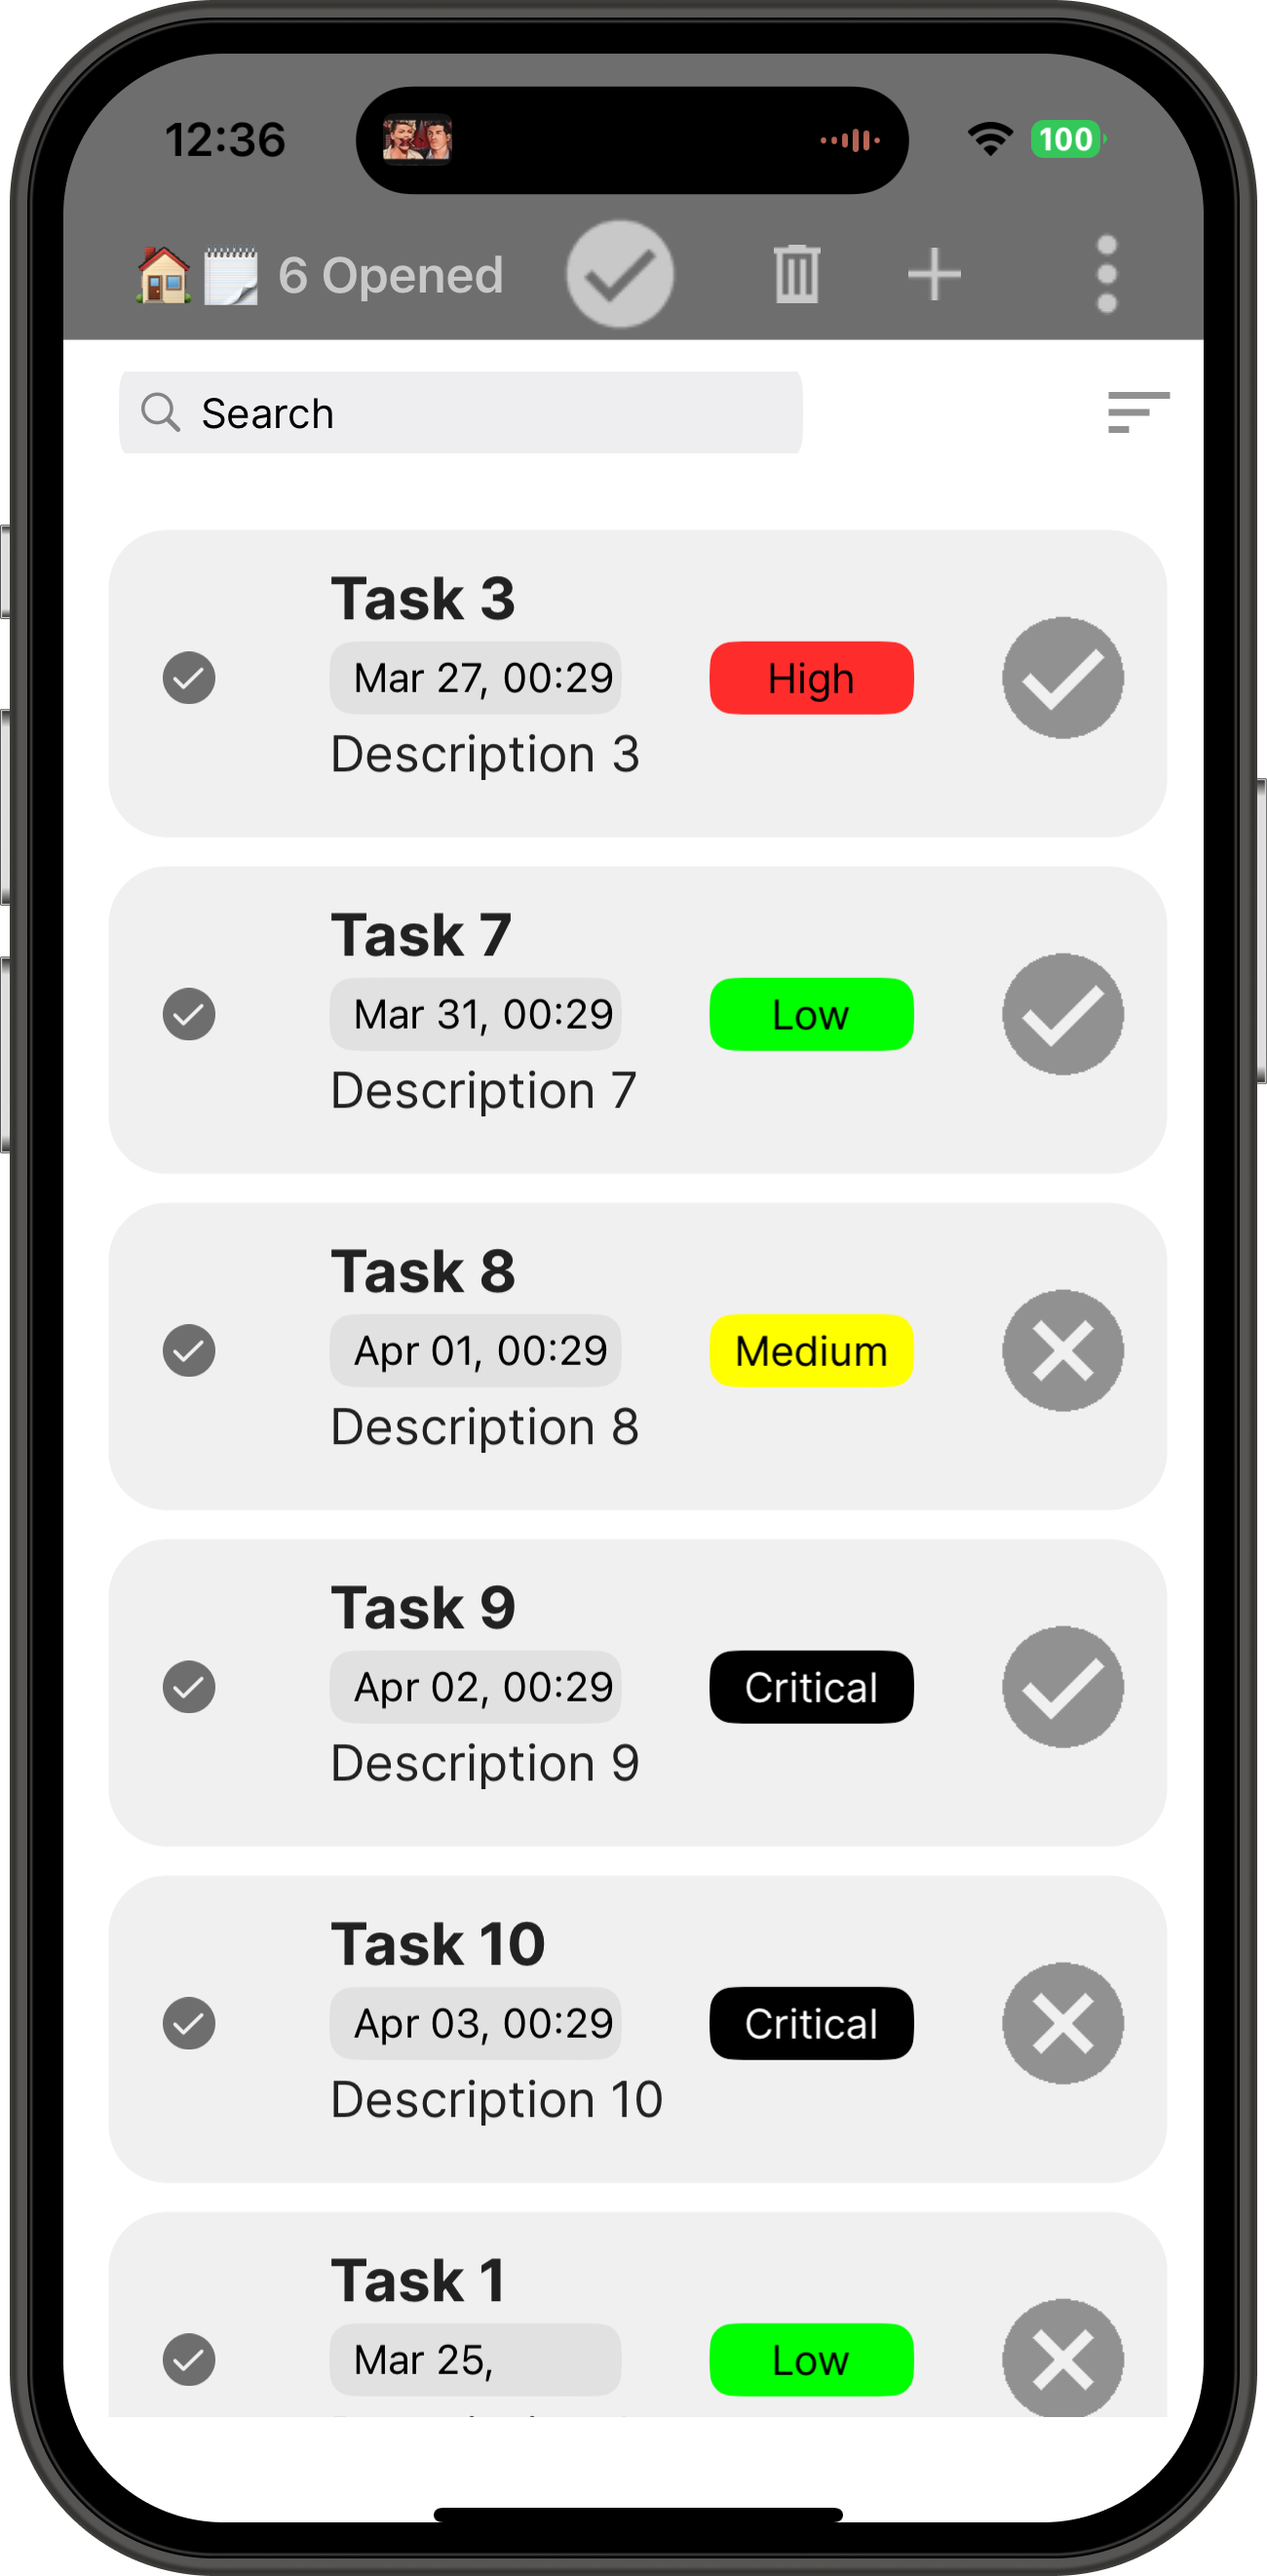
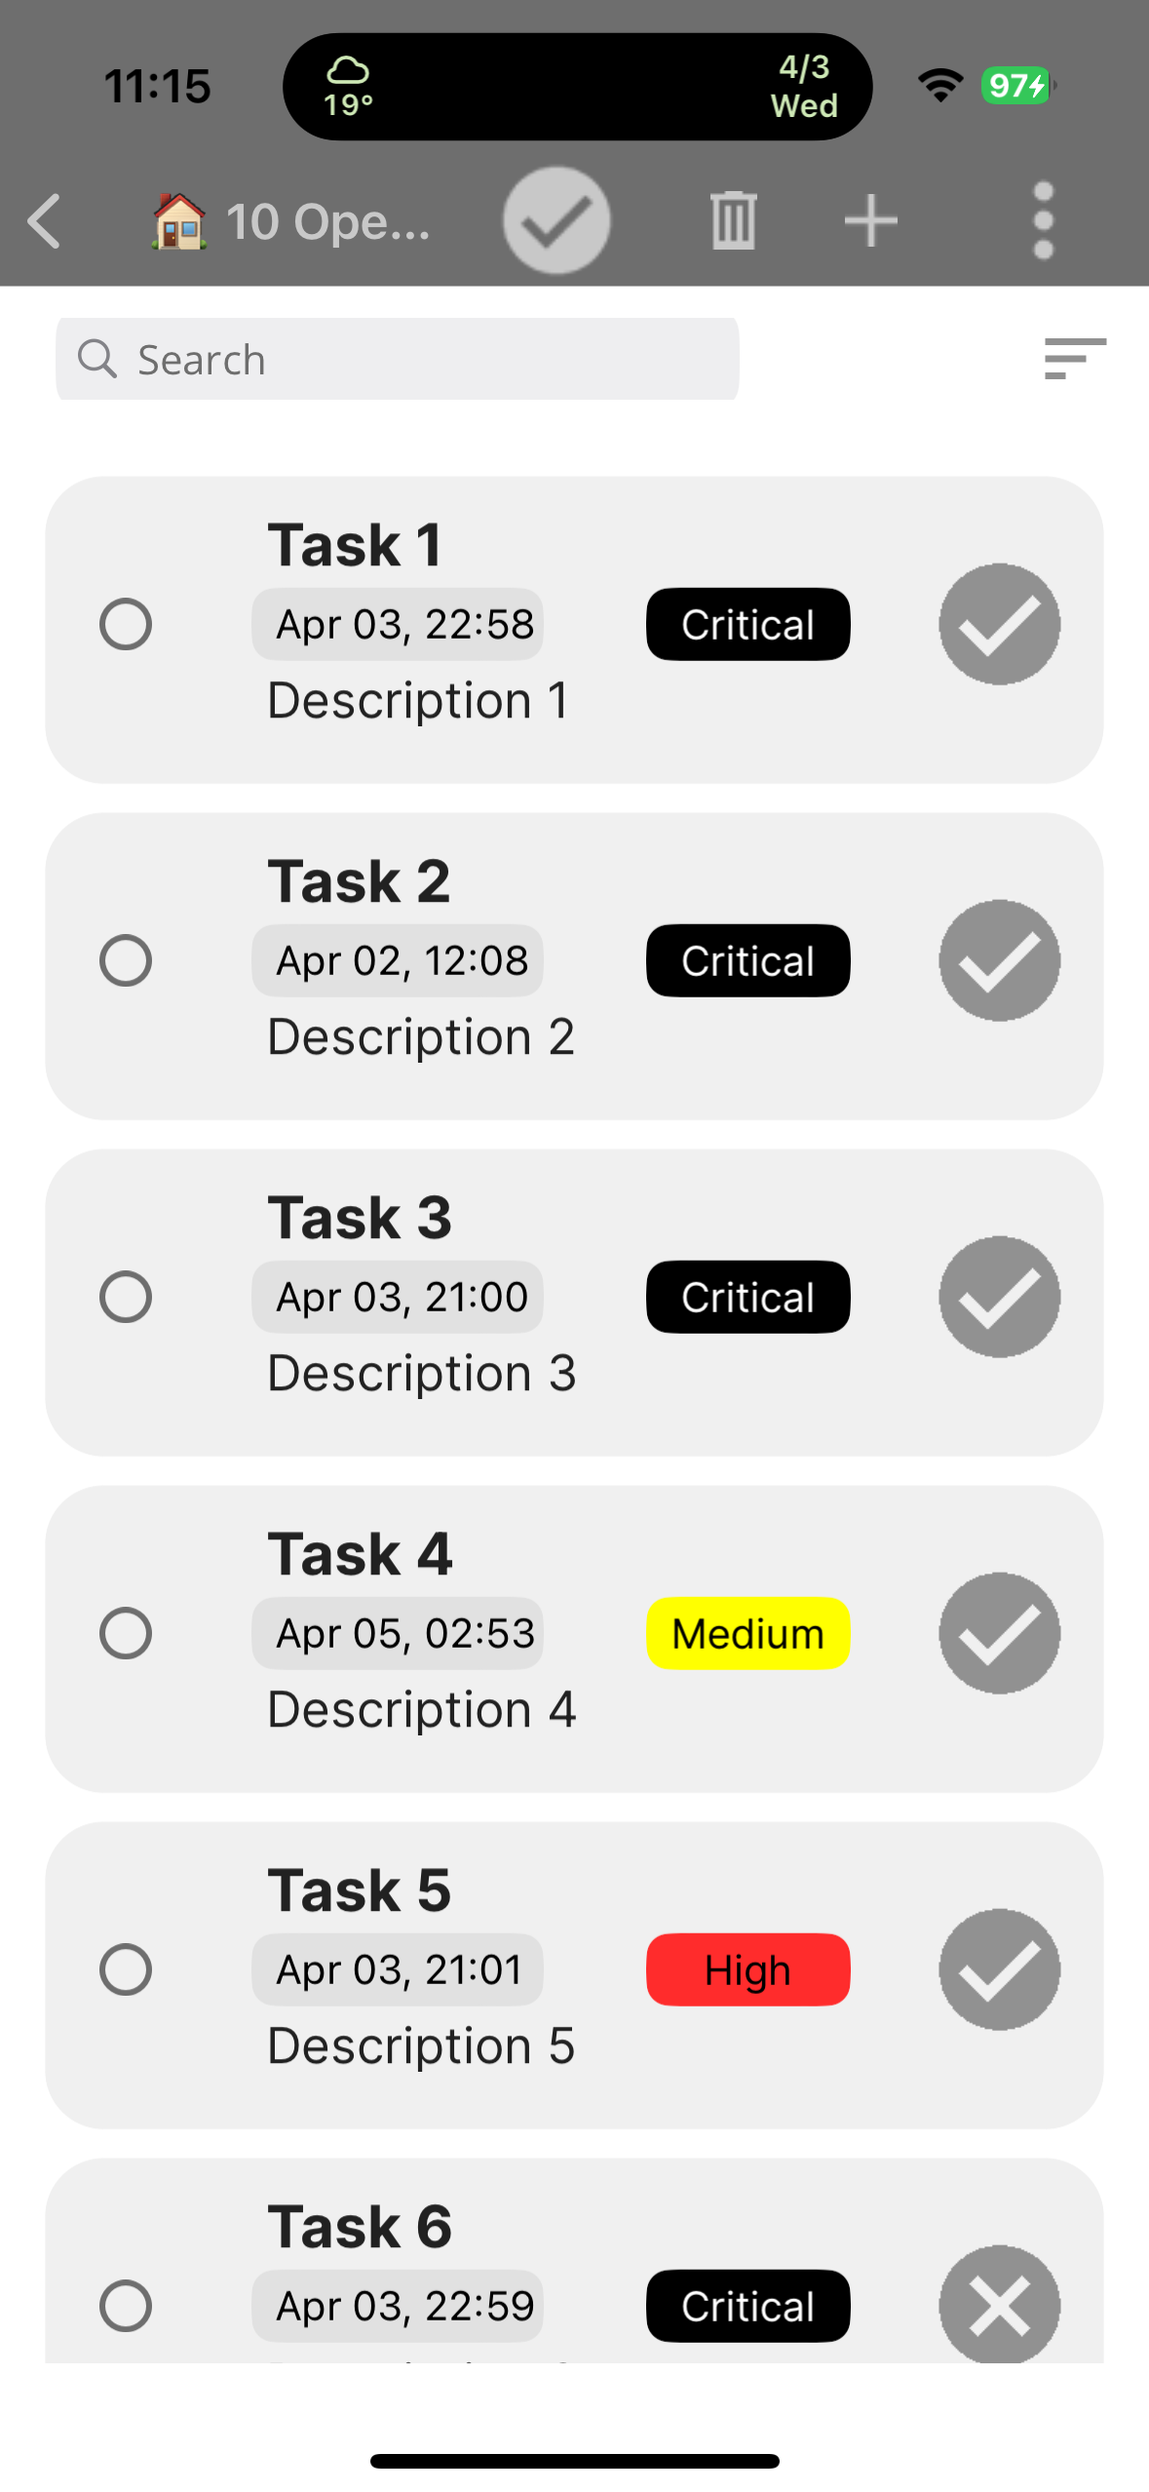
ReadMe - Up to date screenshots. #144

diff --git a/README.md b/README.md
@@ -1,14 +1,18 @@
 # Check Mate ✅
+
 A `To-Do list` app that performs CRUD operations. Made with `.Net MAUI` & `SQLite`
 
 # CI/CD Status & Release
+
 [![CI Build](https://github.com/OudomMunint/.NetMAUI-To-Do-List-App/actions/workflows/ci.yml/badge.svg)](https://github.com/OudomMunint/.NetMAUI-To-Do-List-App/actions/workflows/ci.yml)
 
 # Maintenance Status 🔹<a href="https://github.com/OudomMunint/.NetMAUI-To-Do-List-App/issues">Report Bug</a> &nbsp; &nbsp;
+
 ![maintenance-status](https://img.shields.io/badge/maintenance-actively--developed-brightgreen.svg)
 [![PRs Welcome](https://img.shields.io/badge/PRs-welcome-brightgreen.svg?style=flat-square)](http://makeapullrequest.com)
 
 # Supported Platforms
+
 <table>
   <tr>
     <th>Platform</th>
@@ -17,44 +21,50 @@ A `To-Do list` app that performs CRUD operations. Made with `.Net MAUI` & `SQLit
   </tr>
   <tr>
     <td>Android</td>
-    <td>API 31+</td>
-    <td>API 34</td>
+    <td>API 21+</td>
+    <td>API 34 / Android 14</td>
   </tr>
   <tr>
     <td>iOS</td>
-    <td>iOS 15+</td>
-    <td>iOS 16.3 & iOS 17.0 & 17.2</td>
+    <td>iOS 11+</td>
+    <td>iOS 16.7 & 17.4.1</td>
   </tr>
 </table>
 
 # Required SDKs
+
 - .Net 8.0 from <a href="https://dotnet.microsoft.com/download/dotnet/8.0" target="_blank">`here`</a>
 - XCode 15 from <a href="https://developer.apple.com/xcode/" target="_blank">`here`</a>
+
+# Screenshots
+### iOS, iPhone 15
+<h1 float="center">
+  <img src="Media/dashboarddark.png" style="height:700px; width:370" />
+  <img src="Media/dashboardlight.png" style="height:700px; width:370" />
+</h1>
 
 <h1 float="center">
   <img src="Media/homescreendark.png" style="height:700px; width:360" />
   <img src="Media/homescreenlight.png" style="height:700px; width:360" />
 </h1>
 
-<div float="center">
-<img src="Media/settingsdark.png" style="height:700px; width:370" />
-<img src="Media/detailspage.png" style="height:700px; width:370" />
-</div>
-
-<div float="center">
-<img src="Media/ad1.png" style="height:700px; width:340" />
-<img src="Media/ad2.png" style="height:700px; width:340" />
-</div>
+### Android, Galaxy Z Flip 4
+<h1 float="center">
+  <img src="Media/ad1.png" style="height:700px; width:340" />
+  <img src="Media/ad2.png" style="height:700px; width:340" />
+</h1>
 
 ## Upcoming
+
 - [ ] Swipe gestures
 - [x] Dark mode
 - [ ] Bottom Sheets
+- [x] Charts, Data Visualization
 - [x] Foldable device support
 - [x] .Net 8 Support
 
-
 ## Getting Started
+
 - Install `.NET 8` SDK from <a href="https://dotnet.microsoft.com/download/dotnet/8.0" target="_blank">`here`</a> on your machine.
 - Install <a href="https://visualstudio.microsoft.com/downloads/" target="_blank">`Visual Studio`</a> on your machine and while choosing components you must check the <a href="https://dotnet.microsoft.com/en-us/learn/maui/first-app-tutorial/install" target="_blank">`.NetMaui`</a> box to install .NetMaui.
 - Install <a href="https://developer.android.com/studio?gclid=Cj0KCQiAnNacBhDvARIsABnDa6-EYNc5MIjFoAruujioi9l-gjeu8JVsJd_aqCGGhImxOZkFyoo_woYaAoOCEALw_wcB&gclsrc=aw.ds" target="_blank">`Android Studio`</a> on your machine.
@@ -66,6 +76,7 @@ A `To-Do list` app that performs CRUD operations. Made with `.Net MAUI` & `SQLit
 - Has `SQLite` & `XUnit` dependency.
 
 ## Getting Started iOS
+
 - Install `.NET 8` SDK from <a href="https://dotnet.microsoft.com/download/dotnet/8.0" target="_blank">`here`</a> on your machine.
 - Install <a href="https://visualstudio.microsoft.com/vs/mac/" target="_blank">`Visual Studio for mac`</a> on your machine and while choosing components you must check the `.NetMaui` box.
 - Install <a href="https://developer.apple.com/xcode/" target="_blank">`XCode`</a> on your machine.
@@ -76,7 +87,9 @@ A `To-Do list` app that performs CRUD operations. Made with `.Net MAUI` & `SQLit
 - Has `SQLite` & `XUnit` dependency same with android.
 
 ## Clean scripts
+
 ### This script finds and deletes `bin` / `obj` folders as well as `.DS_Store` files.
+
 - Place the `build.sh` in the root directory of your project.
 - cd to the root directory of your project.
 - Open the terminal and run `chmod +x build.sh` to make the script executable.
